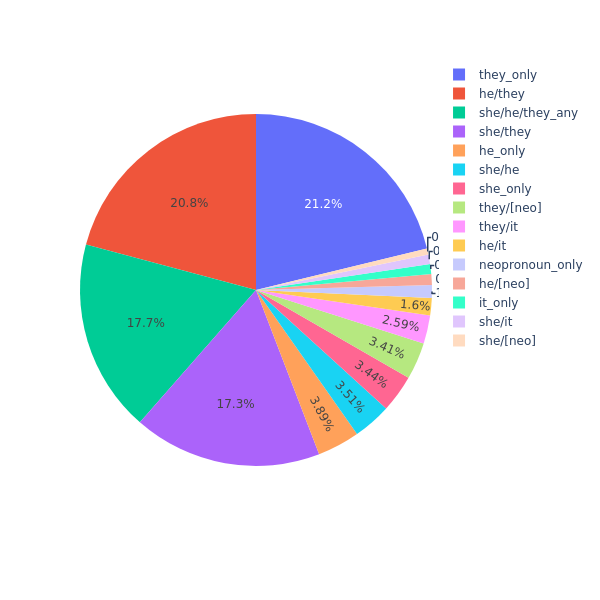
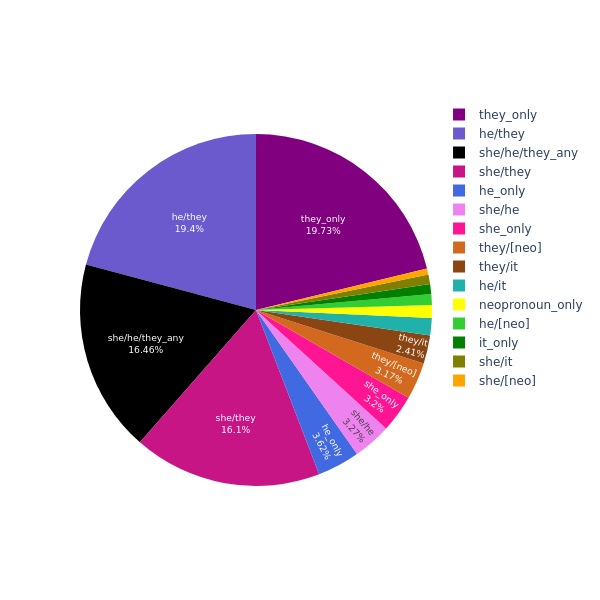
add pie chart

diff --git a/visualisation/pie_charts.py b/visualisation/pie_charts.py
@@ -1,11 +1,24 @@
 import pandas as pd
 import plotly.express as px
+import plotly.graph_objects as go
+from visualisation.vis_utils import make_colour_list
 
 def make_pie(input_srs:pd.Series, data_case:str):
     """
     make pie chart
     """
 
-    fig = px.pie(input_srs, values=0, names=input_srs.index)
+    colours = make_colour_list(input_srs.index, "pronouns")
+
+    labels = input_srs.index
+    values = input_srs.values
+    text = [str(number) + "%" for number in input_srs.values]
+
+    fig = go.Figure(data=[
+        go.Pie(labels=labels, values=values, text=text, marker_colors=colours, 
+               textinfo="text+label", textposition="inside")
+    ])
+
+    fig.update_layout(uniformtext_minsize=8, uniformtext_mode="hide")
 
     return fig
